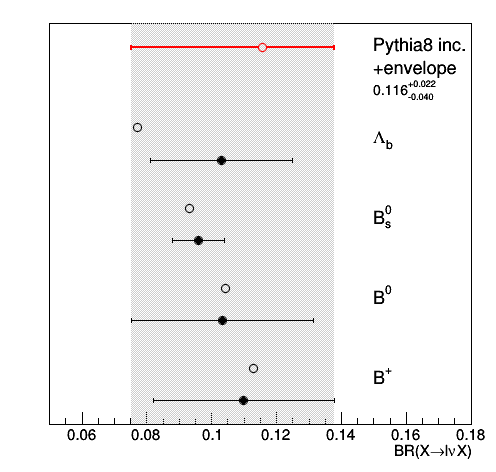
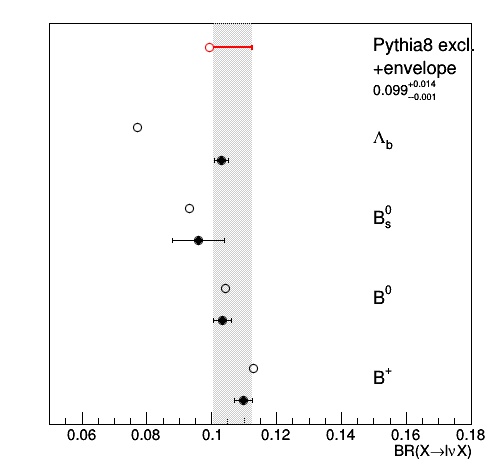
typos in uncs

diff --git a/plugins/BFragmentationAnalyzer.cc b/plugins/BFragmentationAnalyzer.cc
@@ -42,12 +42,14 @@ BFragmentationAnalyzer::BFragmentationAnalyzer(const edm::ParameterSet& iConfig)
 {
   //prepare monitoring histograms
   size_t nhadrons=hadronList_.size()+1;
-  histos_["semilepbr"] = fs->make<TH1F>("semilepbr", ";B-hadron;BR",nhadrons,0,nhadrons);
+  histos_["semilepbr"]    = fs->make<TH1F>("semilepbr", ";B-hadron;BR",nhadrons,0,nhadrons);
+  histos_["semilepbrinc"] = fs->make<TH1F>("semilepbrinc", ";B-hadron;BR",nhadrons,0,nhadrons);
   for(size_t i=0; i<nhadrons; i++)
     {
       std::string name("inc");
       if(i) { char buf[20]; sprintf(buf,"%d", hadronList_[i-1]); name=buf; }
       histos_["semilepbr"]->GetXaxis()->SetBinLabel(i+1,name.c_str());
+      histos_["semilepbrinc"]->GetXaxis()->SetBinLabel(i+1,name.c_str());
       histos_["xb_"+name] = fs->make<TH1F>(("xb_"+name).c_str(), (name+";x_{b}=p_{T}(B)/p_{T}(jet); Jets").c_str(), 100, 0, 2);
     }
   for(auto it : histos_) it.second->Sumw2();
@@ -76,17 +78,26 @@ void BFragmentationAnalyzer::analyze(const edm::Event& iEvent, const edm::EventS
       if(!IS_BHADRON_PDGID(absid)) continue;
 
       //inclusive histos
-      if(jinfo.hasSemiLepDecay) histos_["semilepbr"]->Fill(0);
+      if(jinfo.hasSemiLepDecay) 
+	{
+	  if(!jinfo.hasTauSemiLepDecay)
+	    histos_["semilepbr"]->Fill(0);
+	  histos_["semilepbrinc"]->Fill(0);
+	}
       histos_["xb_inc"]->Fill(jinfo.xb);
-
+      
       //exclusive histograms
       std::vector<int>::iterator hit=std::find(hadronList_.begin(), hadronList_.end(), absid);
       if(hit!=hadronList_.end())
 	{
 	  char buf[20]; 
 	  sprintf(buf,"xb_%d", *hit);
-	  if(jinfo.hasSemiLepDecay && !jinfo.hasTauSemiLepDecay) 
-	    histos_["semilepbr"]->Fill(1+hit-hadronList_.begin());
+	  if(jinfo.hasSemiLepDecay)
+	    {
+	      if(!jinfo.hasTauSemiLepDecay) 
+		histos_["semilepbr"]->Fill(1+hit-hadronList_.begin());
+	      histos_["semilepbrinc"]->Fill(1+hit-hadronList_.begin());
+	    }
 	  histos_[buf]->Fill(jinfo.xb);
 	}
     }

diff --git a/test/drawBrs.py b/test/drawBrs.py
@@ -18,13 +18,13 @@ pdg.SetName('pdg')
 pdg.SetTitle('PDG 2016')
 pdg.SetMarkerStyle(20)
 pdg.SetPoint(0,0.1099,0.3)
-pdg.SetPointError(0,0.028,0.)
+pdg.SetPointError(0,0.0028,0.)
 pdg.SetPoint(1,0.1033,1.3)
-pdg.SetPointError(1,0.028,0.)
+pdg.SetPointError(1,0.0028,0.)
 pdg.SetPoint(2,0.096,2.3)
 pdg.SetPointError(2,0.008,0.)
 pdg.SetPoint(3,0.103,3.3)
-pdg.SetPointError(3,0.022,0.)
+pdg.SetPointError(3,0.0022,0.)
 
 py8=ROOT.TGraphErrors()
 py8.SetName('py8')
@@ -41,24 +41,24 @@ py8.SetPointError(3,0.0,0.)
 
 py8inc=ROOT.TGraphAsymmErrors()
 py8inc.SetName('py8inc')
-py8inc.SetTitle('Pythia8 inc')
+py8inc.SetTitle('Pythia8 exc')
 py8inc.SetMarkerColor(ROOT.kRed)
 py8inc.SetLineColor(ROOT.kRed)
 py8inc.SetLineWidth(2)
 py8inc.SetMarkerStyle(24)
-py8inc.SetPoint(0,brcen,4.7)
-py8inc.SetPointError(0,brcen-brdown,brup-brcen,0.,0.)
+py8inc.SetPoint(0,BRCEN,4.7)
+py8inc.SetPointError(0,BRCEN-BRDOWN,BRUP-BRCEN,0.,0.)
 
 py8env=ROOT.TGraph()
 py8env.SetName('py8env')
 py8env.SetTitle('Pythia8 env')
 py8env.SetFillStyle(3001)
 py8env.SetFillColor(ROOT.kGray)
-py8env.SetPoint(0,brdown,0)
-py8env.SetPoint(1,brdown,5)
-py8env.SetPoint(2,brup,5)
-py8env.SetPoint(3,brup,0)
-py8env.SetPoint(4,brdown,0)
+py8env.SetPoint(0,BRDOWN,0)
+py8env.SetPoint(1,BRDOWN,5)
+py8env.SetPoint(2,BRUP,5)
+py8env.SetPoint(3,BRUP,0)
+py8env.SetPoint(4,BRDOWN,0)
 
 
 frame=ROOT.TH1F('frame',';BR(X#rightarrowl#nuX)',1,0.05,0.18)
@@ -77,8 +77,8 @@ txt.DrawLatex(0.15,0.5,'B^{+}')
 txt.DrawLatex(0.15,1.5,'B^{0}')
 txt.DrawLatex(0.15,2.5,'B^{0}_{s}')
 txt.DrawLatex(0.15,3.5,'#Lambda_{b}')
-txt.DrawLatex(0.15,4.5,'#splitline{Pythia8 inc.}{+envelope}')
-txt.DrawLatex(0.15,4.1,'#scale[0.8]{%3.3f^{+%3.3f}_{-%3.3f}}'%(brcen,brup-brcen,brcen-brdown))
+txt.DrawLatex(0.15,4.5,'#splitline{Pythia8 excl.}{+envelope}')
+txt.DrawLatex(0.15,4.1,'#scale[0.8]{%3.3f^{+%3.3f}_{-%3.3f}}'%(BRCEN,BRUP-BRCEN,BRCEN-BRDOWN))
 
 c.Modified()
 c.Update()

diff --git a/test/buildWeightFile.py b/test/buildWeightFile.py
@@ -3,9 +3,10 @@
 import ROOT
 from runWeightCreationLoop import TUNES,MAXEVENTS
 
-BRCEN=0.115583
-BRDOWN=0.1033-0.028
-BRUP=0.1099+0.028
+BREXC=0.230602
+BRCEN=0.099170
+BRDOWN=0.1033-0.0028
+BRUP=0.1099+0.0028
 
 """
 Interpolate extremes and then derive the weights based on a 2nd order spline for the remaining nodes
@@ -70,16 +71,21 @@ def main():
         #raw_input()
 
     #semi-leptonic BRs
+
+    #scale up the exclusive BRs
+    brexcUp   = BREXC*(BRUP/BRCEN)
+    brexcDown = BREXC*(BRDOWN/BRCEN)
+
     semilepbrUp=ROOT.TGraph()
     semilepbrUp.SetName("semilepbrUp")
-    semilepbrUp.SetPoint(0,(1-BRUP)/(1-BRCEN),1.0)
-    semilepbrUp.SetPoint(1,BRUP/BRCEN,1.0)
+    semilepbrUp.SetPoint(0,(1-brexcUp)/(1-BREXC),1.0)
+    semilepbrUp.SetPoint(1,brexcUp/BREXC,1.0)
     semilepbrUp.Write()
 
     semilepbrDown=ROOT.TGraph()
     semilepbrDown.SetName("semilepbrDown")
-    semilepbrDown.SetPoint(0,(1-BRDOWN)/(1-BRCEN),0.95)
-    semilepbrDown.SetPoint(1,BRDOWN/BRCEN,1.02)
+    semilepbrDown.SetPoint(0,(1-brexcDown)/(1-BREXC),0.95)
+    semilepbrDown.SetPoint(1,brexcDown/BREXC,1.02)
     semilepbrDown.Write()
         
 

diff --git a/README.md b/README.md
@@ -40,6 +40,7 @@ For the first case an example is provided below.
 
 ## Accessing the weights in a EDM analyzer
 
+TODO
 
 # Expert notes
 To create the weights file one needs to run the  `BFragmentationAnalyzer` on the different fragmentation 
